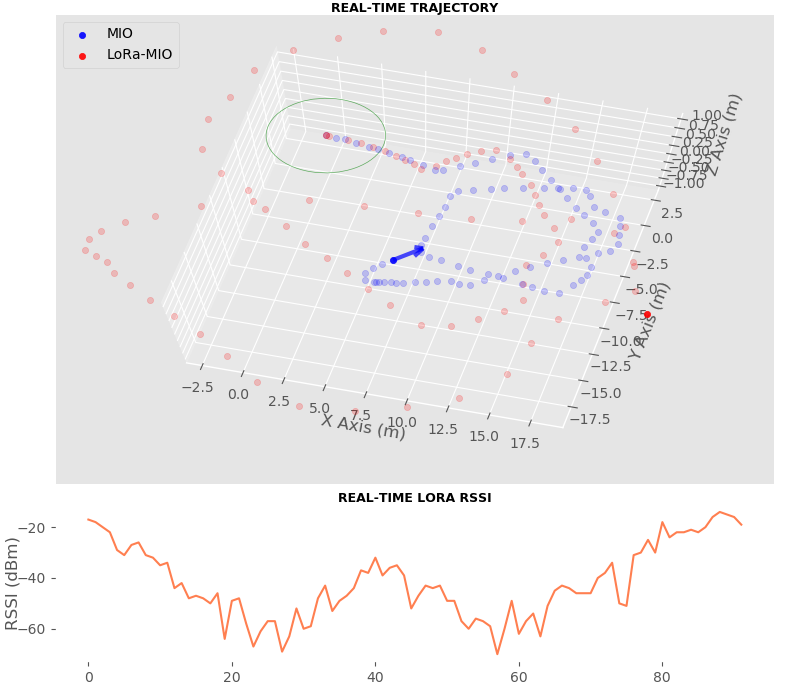
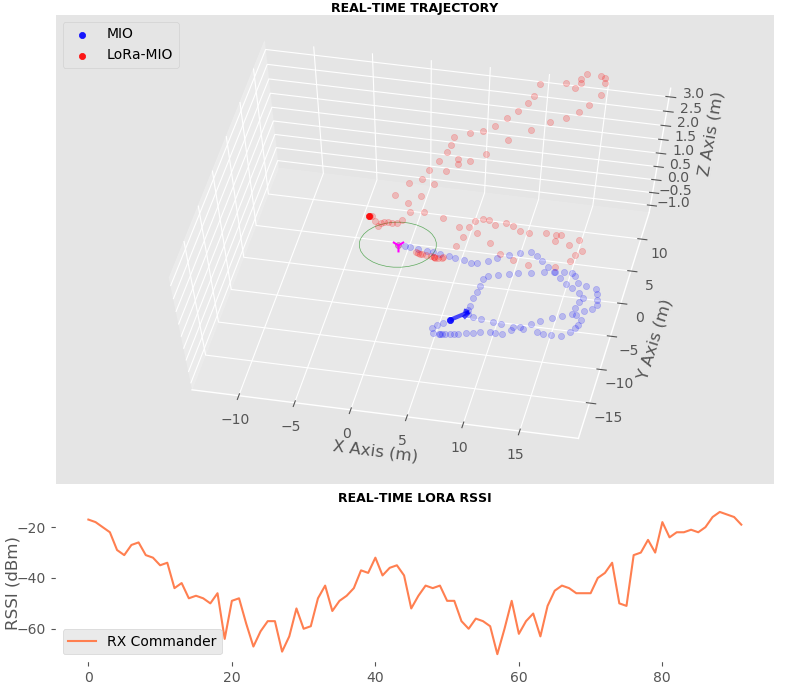
Fixed BUG: translation_x is related to Forward at Personal Frame

diff --git a/EKF.py b/EKF.py
@@ -24,7 +24,7 @@ R1 = np.array([[0., 0., 0.],
                [5., 4., 0.],
                [2., -2.5, 0.]])
 # Path Loss Model params
-ALPHA = -45#-28.57
+ALPHA = -45.712  # -28.57 * 1.6
 BETA = -5.06
 SIGMA = 4.887
 
@@ -132,8 +132,8 @@ def HJacobian_at_AngularV(x, anchor=1):
     # Fix a BUG: denom is variable
     a = ALPHA * math.log10(math.e)
     # HJabobian in (4, 5) if ONE LoRa RX; (6, 5) if THREE LoRa RXs available
-    Jacob = array([[0, 0, -dt * V * math.sin(theta), dt * math.cos(theta), 0],
-                   [0, 0, dt * V * math.cos(theta), dt * math.sin(theta), 0],
+    Jacob = array([[0, 0, 0, dt * math.cos(W), -dt * V * math.sin(W)],
+                   [0, 0, 0, dt * math.sin(W), dt * V * math.cos(W)],
                    [0, 0, 0, 0, dt]])
     for row in range(0, anchor):
         denom = (X - R1[row, 0]) ** 2 + (Y - R1[row, 1]) ** 2
@@ -149,8 +149,8 @@ def hx_AngularV(x, anchor=1):
     """ compute measurement of [X, Y, ROT_Z, RSSIs...]^T that would correspond to state x.
     """
     dt = .1
-    trans_x = dt * x[3, 0] * math.cos(x[2, 0])
-    trans_y = dt * x[3, 0] * math.sin(x[2, 0])
+    trans_x = dt * x[3, 0] * math.cos(x[4, 0])
+    trans_y = dt * x[3, 0] * math.sin(x[4, 0])
     rot_z = dt * x[4, 0]
     h = array([trans_x, trans_y, rot_z]).reshape((-1, 1))
     for row in range(0, anchor):
@@ -360,9 +360,9 @@ class EKF_Fusion():
         # Trigger EKF
         self.rt_run(gap)
         print("Elapsed time of EKF = ", time.time() - start_t)
-        print("ABS_YAW: %.3f (=%.3f OR %.3f)" % (self.abs_yaw, self.abs_yaw-2*math.pi, self.abs_yaw+2*math.pi))
+        print("ABS_YAW: %.3f (=%.3f OR %.3f)" % (self.abs_yaw, self.abs_yaw-2*math.pi, self.abs_yaw-4*math.pi))
         print("State X:\n", self.my_kf.x)
-        print("")
+
         if self.visual:
             self.rt_show()
 
@@ -491,7 +491,7 @@ class EKF_Fusion():
         # Not Attempting to Visual EKF Updated Orientation
         #self.handle_arrw_ekf = self.ax21.quiver([self.my_kf.x[0, 0]], [self.my_kf.x[1, 0]], [self.my_kf.x[2, 0]], self.U_ekf, self.V_ekf, self.W_ekf, color='r', length=1., alpha=.7)
         # Manually Equal Axis and Limit
-        self.ax21.auto_scale_xyz([-2, 18], [-18, 2], [-1, 1])
+        self.ax21.auto_scale_xyz([-12, 18], [-18, 12], [-1, 3])
 
         # Plot Range
         radius = 10**((self.rssi_list[-1] + BETA)/ALPHA)

diff --git a/replay.py b/replay.py
@@ -151,16 +151,17 @@ class EKF_Fusion_MultiRX_AngularV(EKF_Fusion):
                 final_xyZ.append(self.smoother(self.rssi_list3))
 
             z = np.asarray(final_xyZ, dtype=float).reshape(-1, 1)
-            #print("Measurement ROT_Z:", z[2, 0])
+            #print("Measurement z: ", z)
             # TODO Add data integraty check: X+ value explodes
 
             # Refresh Measurement noise R
-            # Tip1: (x, y) shouldn't be large; Tip2: large noise for RSSI; Tip3: small noise for rot_z
-            self.my_kf.R[0, 0] = 0.19  # self.sigma_list[-g][0]*1000
-            self.my_kf.R[1, 1] = 0.19  # self.sigma_list[-g][1]*1000
-            self.my_kf.R[2, 2] = 0.0001 # self.sigma_list[-g][-1]**2 # Sigma of ROT_Z
+            # Tip1: TRANS_X uncertainty larger than TRANS_Y
+            # Tip2: Large ROT_Z noise loses abs_yaw; Small ROT_Z noise loses track
+            self.my_kf.R[0, 0] = 0.04  # self.sigma_list[-g][0]*1000
+            self.my_kf.R[1, 1] = 0.001  # self.sigma_list[-g][1]*1000
+            self.my_kf.R[2, 2] = 0.0001  # self.sigma_list[-g][-1]**2 # Sigma of ROT_Z
             for rowcol in range(3, 3+self.anchor):
-                self.my_kf.R[rowcol, rowcol] = 5*SIGMA**2
+                self.my_kf.R[rowcol, rowcol] = 4 * SIGMA**2
 
             # Refresh State Transition Martrix: F
             self.my_kf.F = eye(5) + array([[0, 0, -self.dt * self.my_kf.x[3, 0] * math.sin(self.my_kf.x[2, 0]),
@@ -248,8 +249,8 @@ if __name__=="__main__":
             # Add synthetic RSSIs
             data_len = len(recv_list)
             if 0:
-                rssi_y2 = synthetic_rssi(data_len=data_len, period=1.)
-                rssi_y3 = synthetic_rssi(data_len=data_len, period=1., Amp=15, phase=-math.pi/2, noiseAmp=0.3, mean=-45)
+                rssi_y2 = synthetic_rssi(data_len=data_len, period=1)
+                rssi_y3 = synthetic_rssi(data_len=data_len, period=1, Amp=15, phase=-math.pi/2, noiseAmp=0.3, mean=-45)
             else:
                 rssi_y2, rssi_y3 = [], []
 
